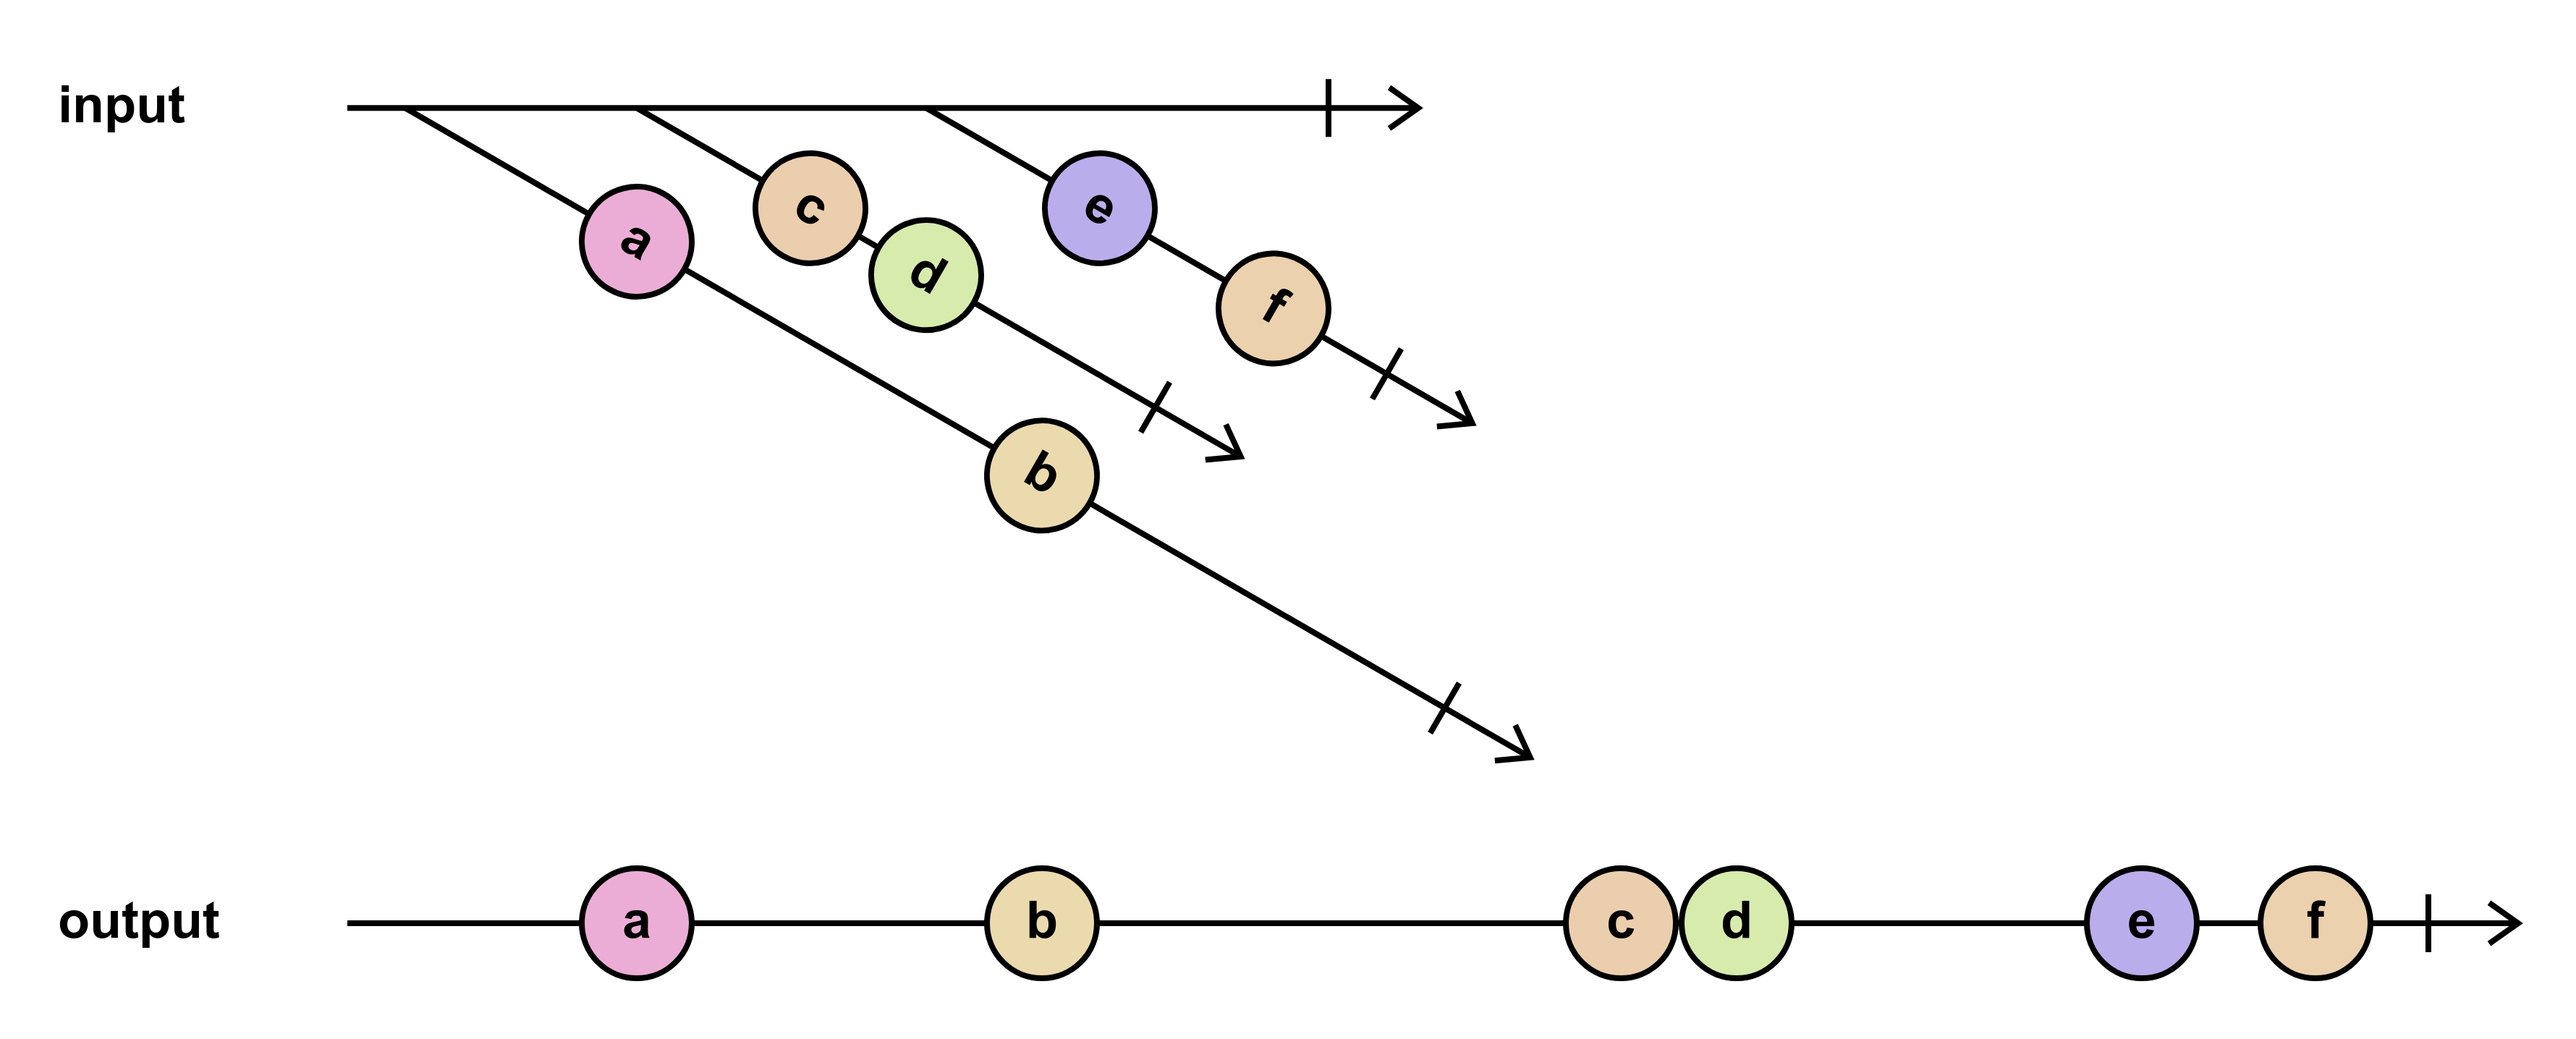
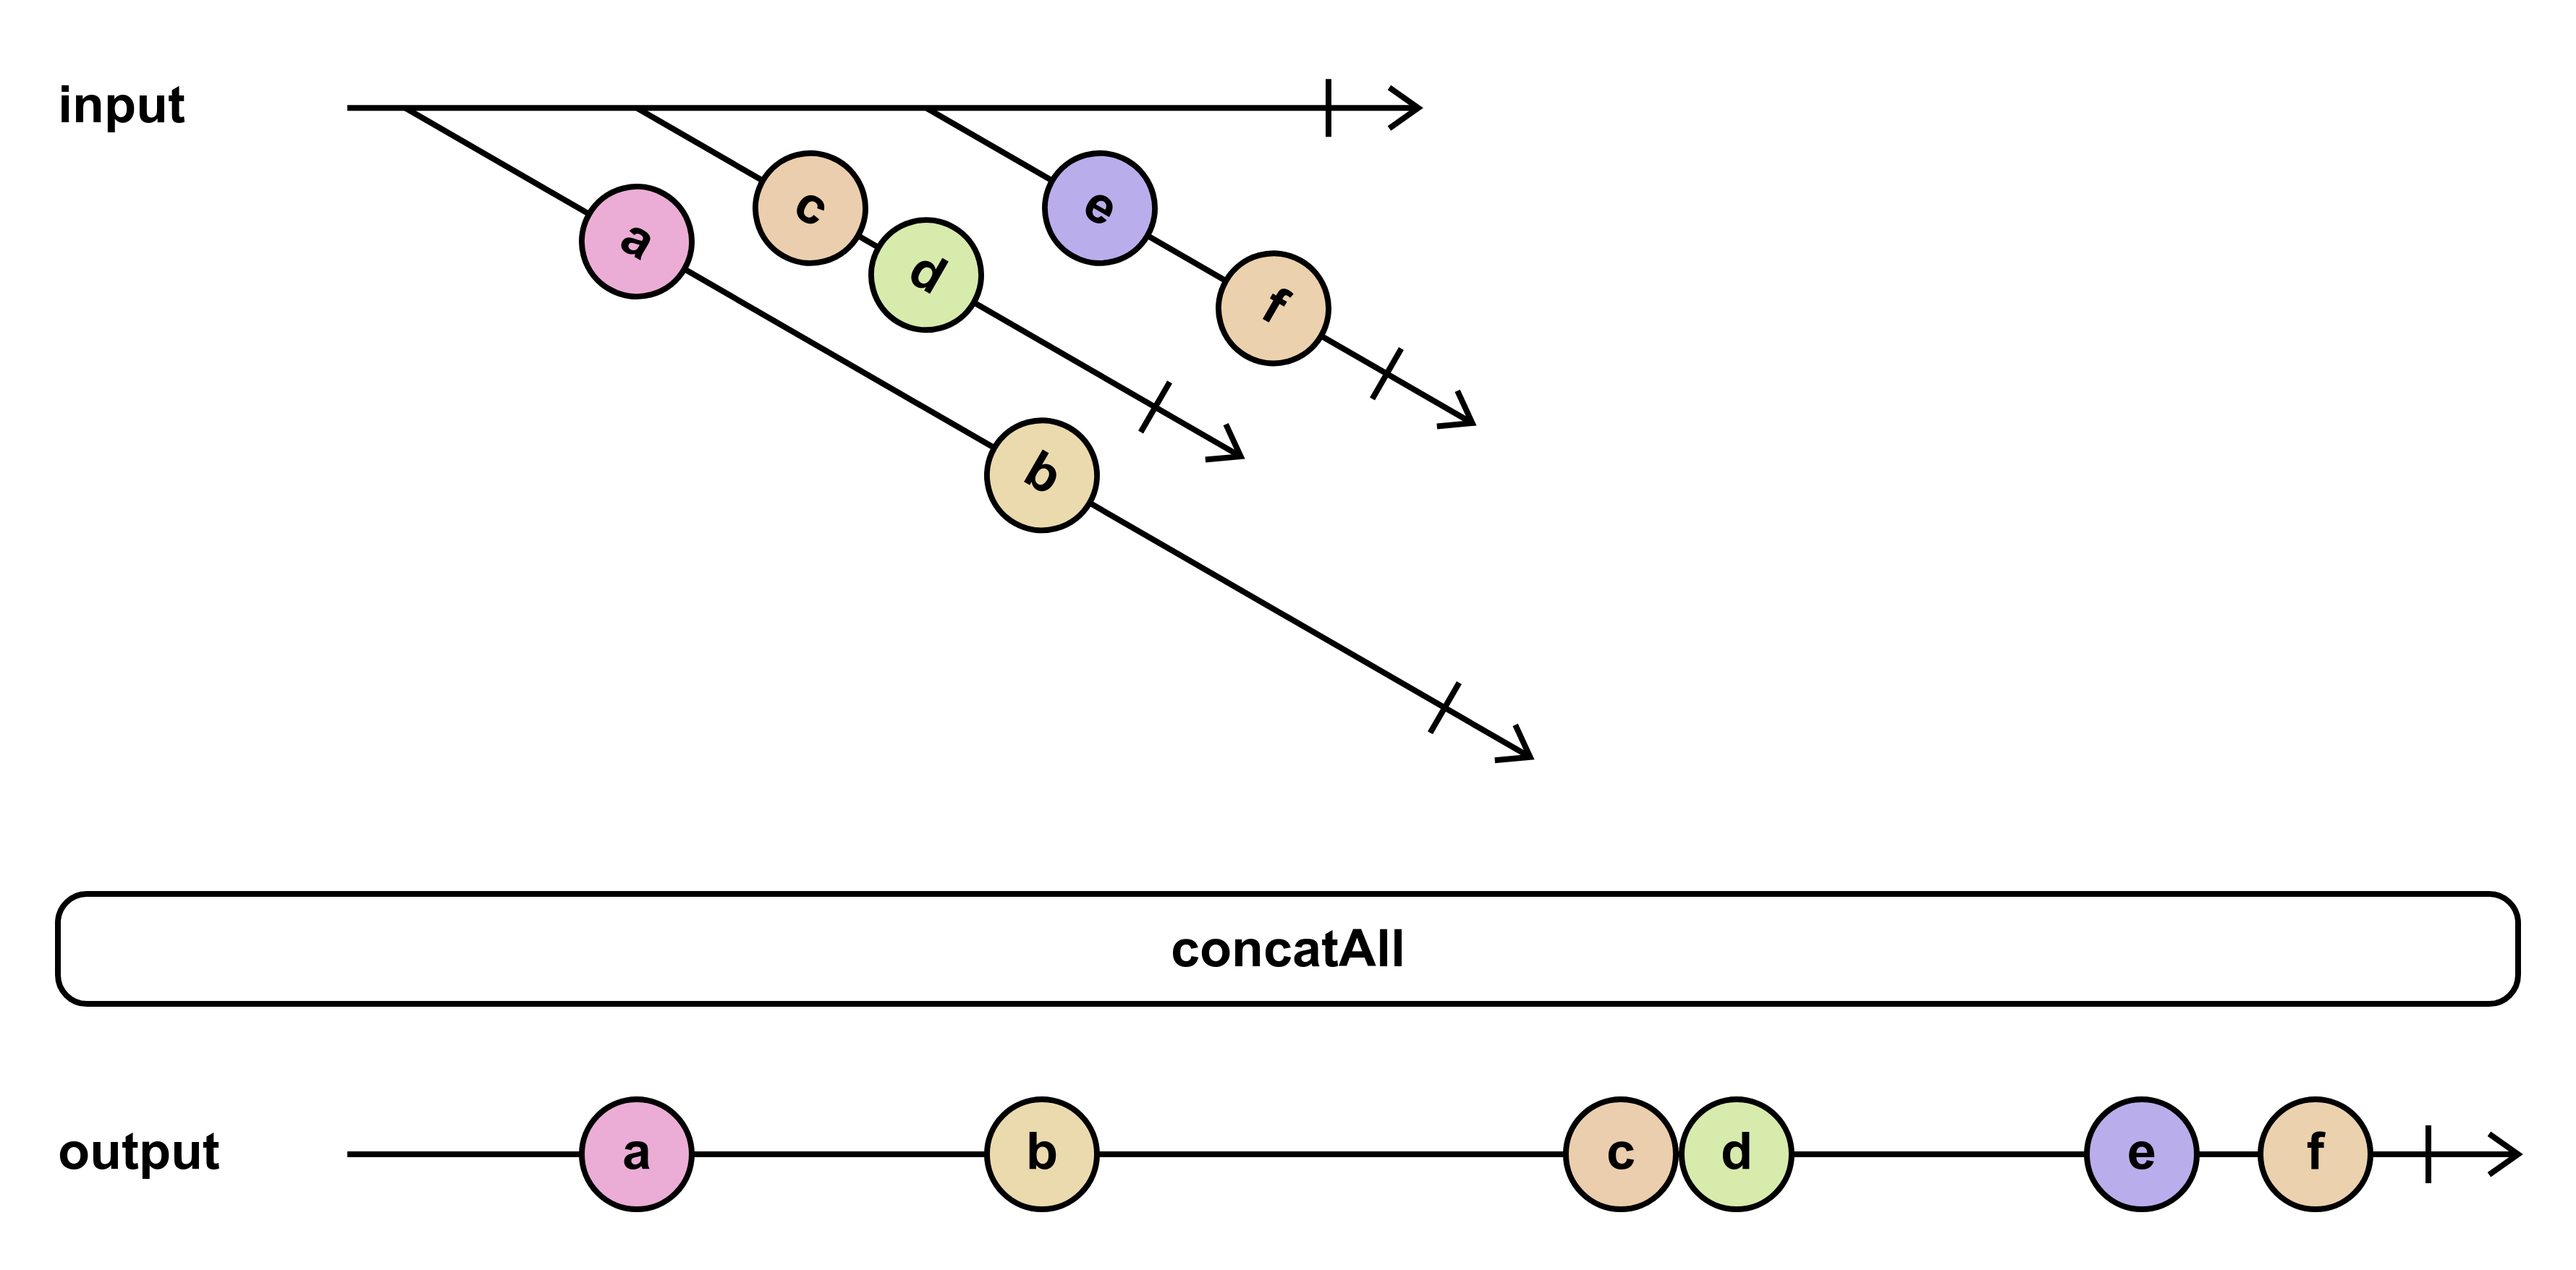
Add basic support for operators; add skipUntil example

diff --git a/lib/draw/operator.js b/lib/draw/operator.js
@@ -1,0 +1,60 @@
+const { createElement } = require('../util/create-element')
+const { mergeStyles } = require('../util/merge-styles')
+
+const drawOperator = (ctx, operator) => {
+  const { document, styles } = ctx
+  const s = mergeStyles('operator_', styles, operator)
+
+  const $group = createElement(document, 'g')
+
+  const $rect = createElement(document, 'rect', {
+    x: 0,
+    y: s.spacing,
+    width: 1,
+    height: s.height - s.stroke_width,
+    fill: s.fill_color,
+    stroke: s.stroke_color,
+    'stroke-width': s.stroke_width,
+    rx: s.corner_radius
+  })
+  $group.appendChild($rect)
+
+  const $text = createElement(
+    document,
+    'text',
+    {
+      x: s.spacing,
+      y: s.spacing + s.height / 2 + 'px',
+      fill: s.title_color,
+      'font-family': s.title_font_family,
+      'font-size': s.title_font_size + 'px',
+      'font-weight': s.title_font_weight,
+      'font-style': s.title_font_style,
+      'dominant-baseline': 'middle',
+      'text-anchor': 'middle'
+    },
+    operator.title
+  )
+  $group.appendChild($text)
+
+  const bbox = {
+    x1: 0,
+    y1: 0,
+    x2: 1,
+    y2: s.height + 2 * s.spacing
+  }
+
+  const update = ({ width }) => {
+    $rect.setAttribute('width', width)
+    $text.setAttribute('x', width / 2)
+    $text.setAttribute('width', width)
+  }
+
+  return {
+    element: $group,
+    bbox,
+    update
+  }
+}
+
+module.exports = { drawOperator }

diff --git a/lib/draw/index.js b/lib/draw/index.js
@@ -1,4 +1,5 @@
 const { drawStream } = require('./stream')
+const { drawOperator } = require('./operator')
 const { createElement } = require('../util/create-element')
 const { translate } = require('../util/transform')
 const DEFAULT_STYLES = require('./default-styles.json')
@@ -30,26 +31,42 @@ const drawMarbleDiagram = (spec, options = {}) => {
 
   const ctx = { document, styles }
 
+  const updaters = []
+
   let maxX = 0
   let y = 0
   for (const stream of spec.streams) {
-    const { element, bbox } = drawStream(ctx, stream)
+    const draw = stream.messages != null ? drawStream : drawOperator
+
+    const { element, bbox, update } = draw(ctx, stream)
     translate(element, 0, y - bbox.y1)
     $group.appendChild(element)
+
     maxX = Math.max(maxX, bbox.x2)
+
     const height = bbox.y2 - bbox.y1
     y += height + styles.stream_spacing
+
+    if (update != null) {
+      updaters.push(update)
+    }
   }
 
   y -= styles.stream_spacing
 
   const width = styles.canvas_padding + maxX + styles.canvas_padding
   const height = styles.canvas_padding + y + styles.canvas_padding
+
   $svg.setAttribute('viewBox', `0 0 ${width} ${height}`)
   $svg.setAttribute('width', width)
   $svg.setAttribute('height', height)
+
   $bg.setAttribute('width', width)
   $bg.setAttribute('height', height)
+
+  for (const update of updaters) {
+    update({ width: maxX, height: y })
+  }
 
   return {
     document,

diff --git a/lib/parse.js b/lib/parse.js
@@ -144,6 +144,11 @@ const parseMarbleDiagramSpec = str => {
     if (lines[0] === STYLES_HEADER) {
       const extraStyles = parseConfig(lines.slice(1), false)
       Object.assign(styles, extraStyles)
+    } else if (lines.length === 1) {
+      // HACK Operator is a "stream" with messages == null
+      streams.push({
+        title: lines[0]
+      })
     } else {
       const [name, marbles, ...configLines] = lines
       const config = parseConfig(configLines, true)
